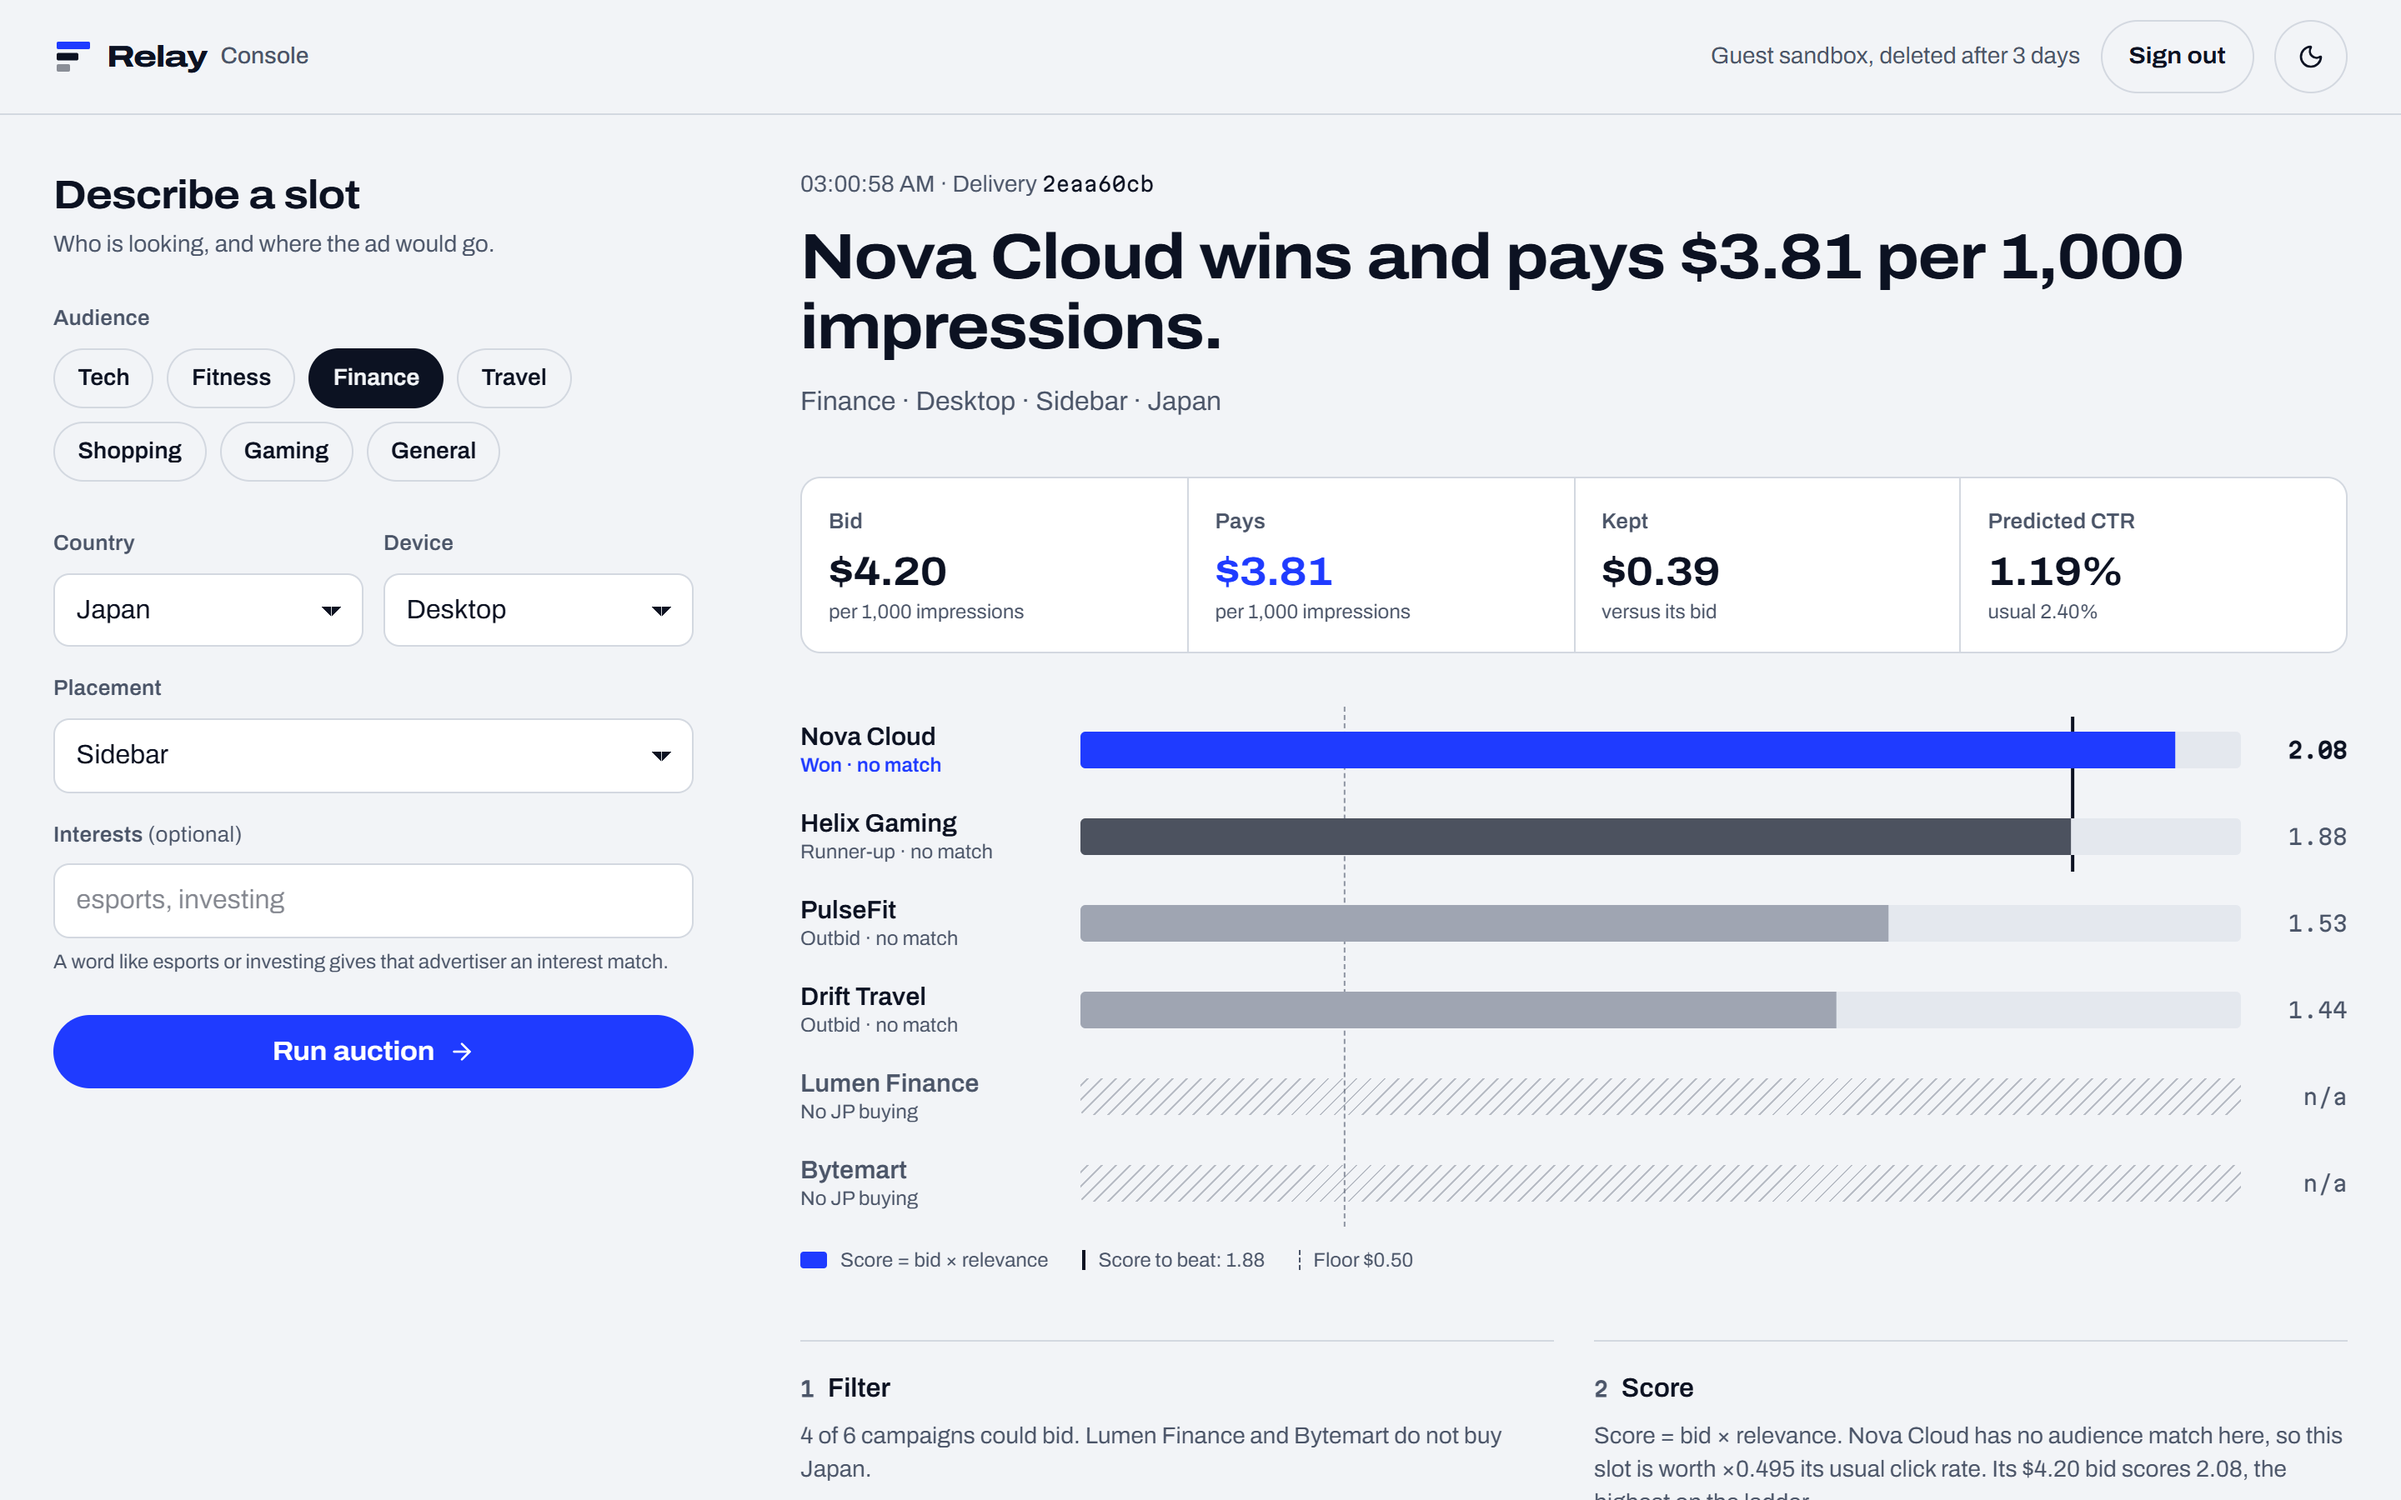
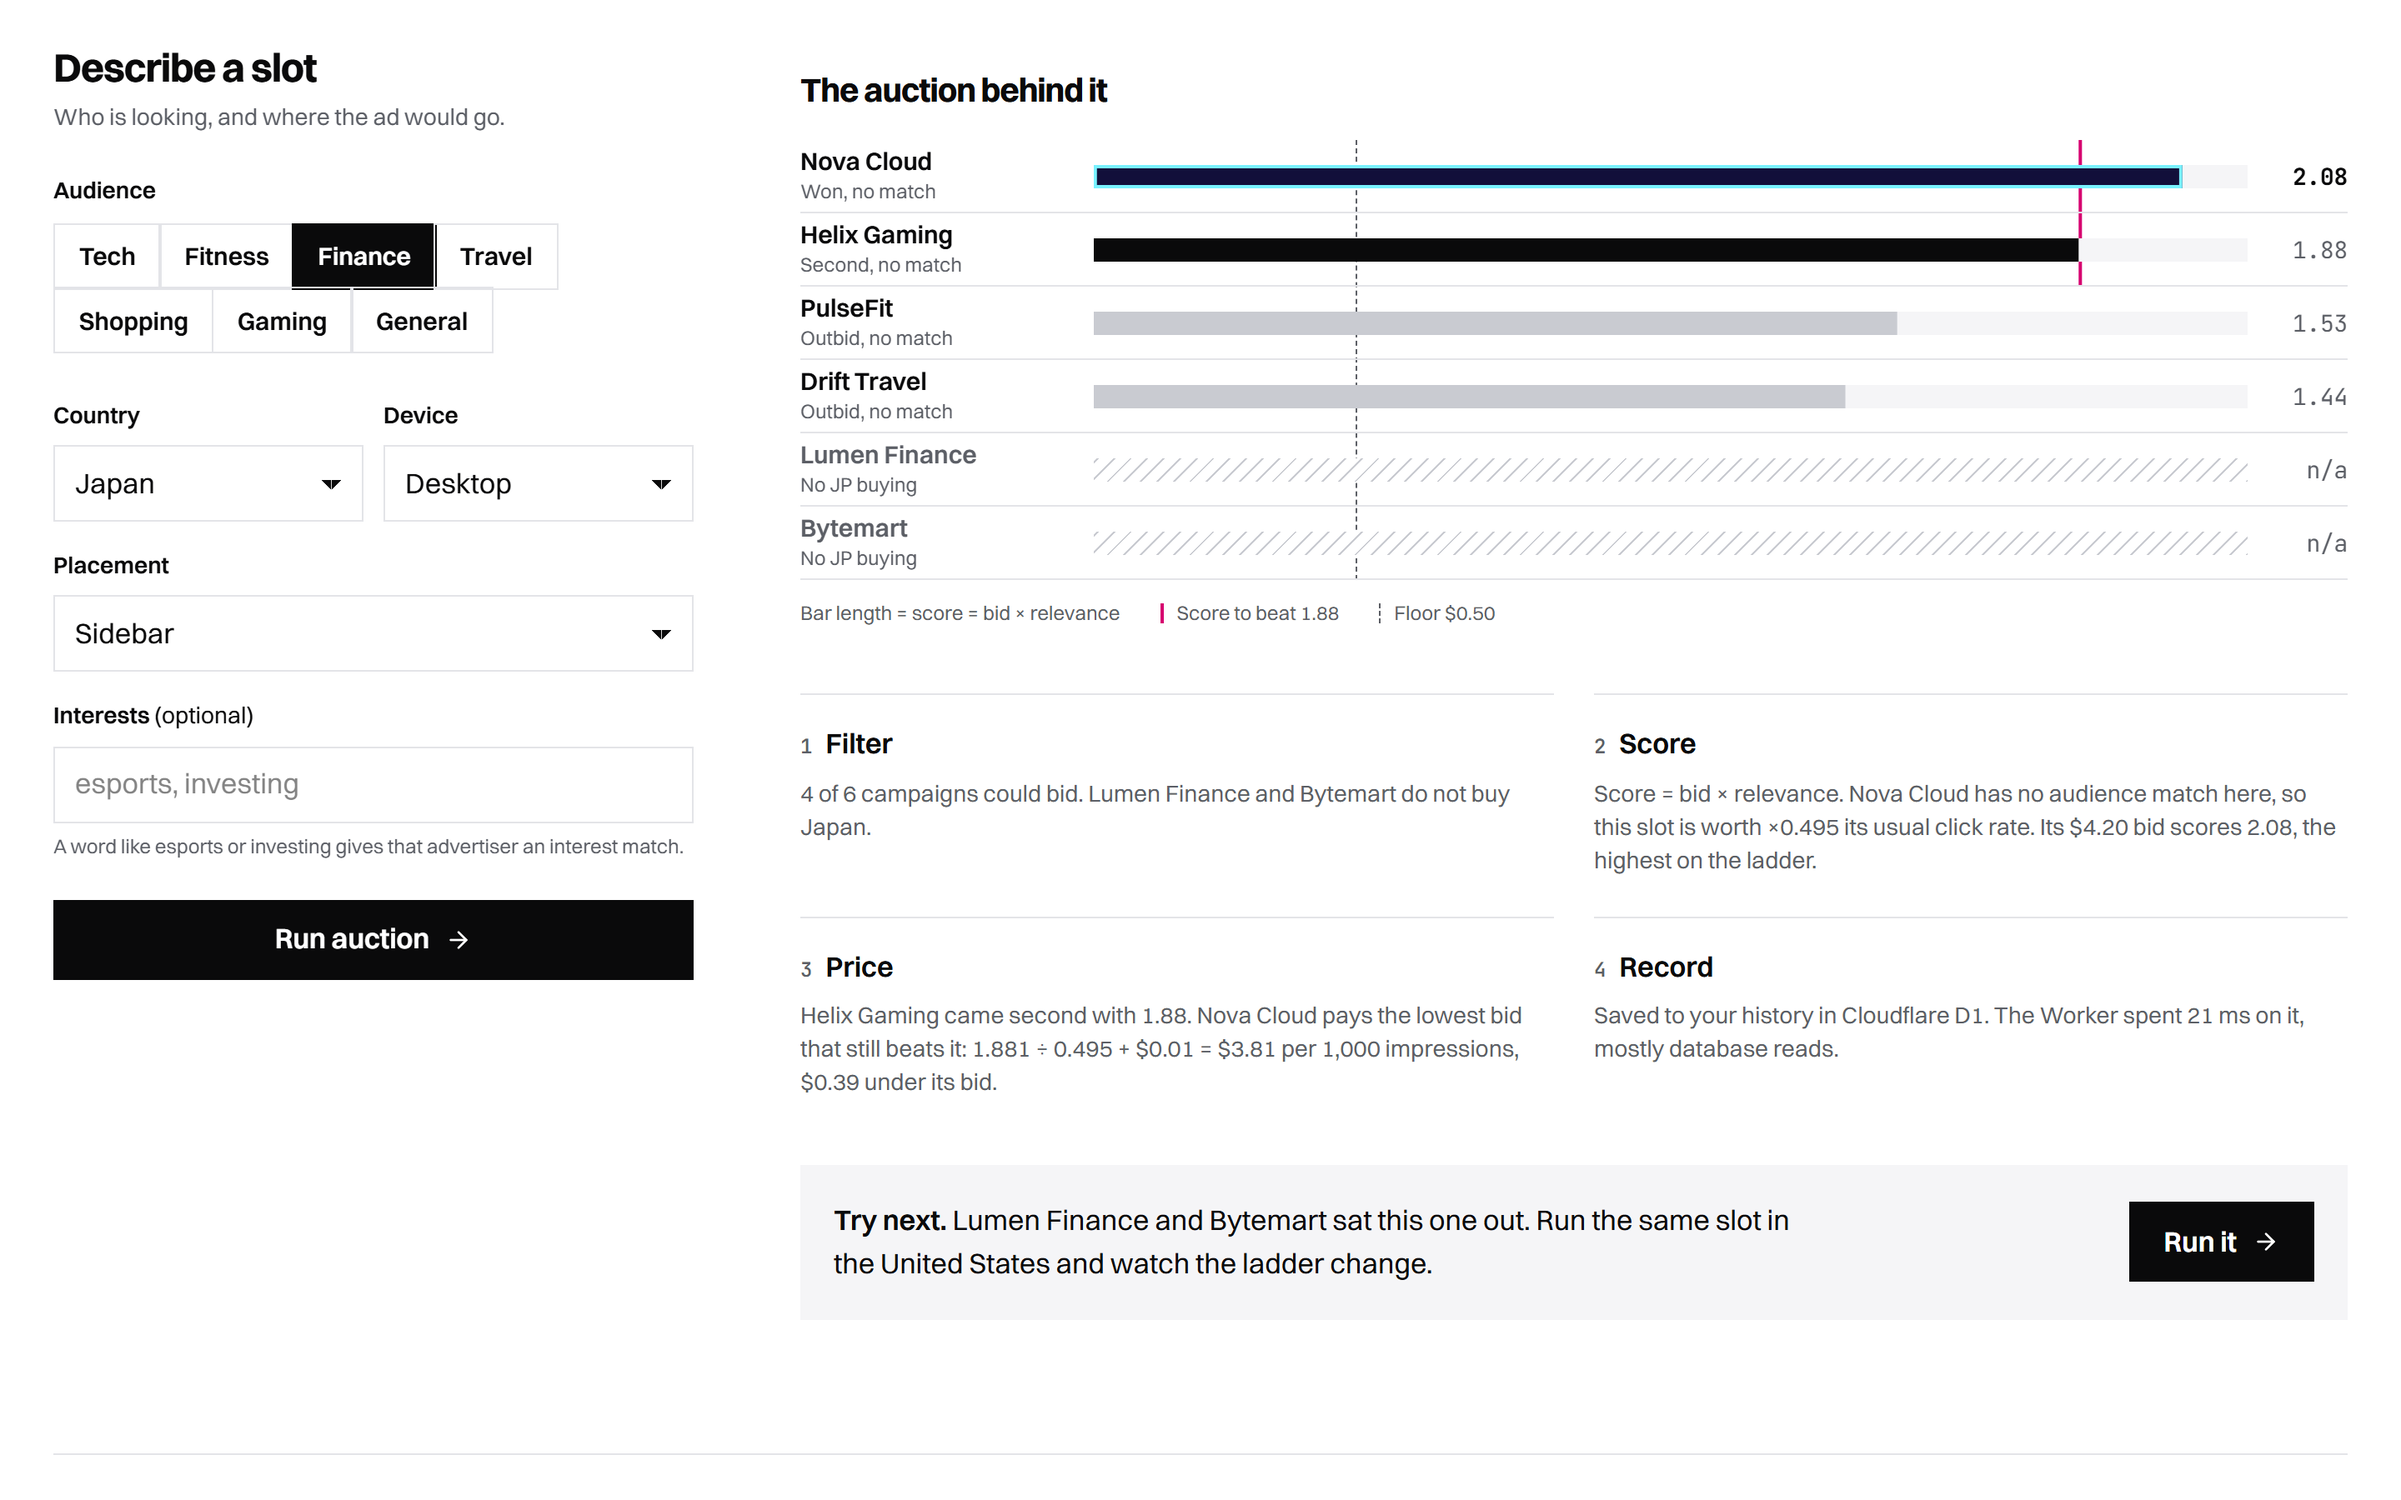
Docs: README and design notes for the ad-inventory redesign; new screenshots

diff --git a/docs/DESIGN.md b/docs/DESIGN.md
@@ -2,40 +2,37 @@
 
 ## Idea
 
-Every ad slot is an auction, and Relay shows the whole auction instead of just the winner. The
-interface borrows from a trading **price ladder**: ranked rows, bars as long as each bidder's score,
-and one marked line where the price is set.
+**The page is ad inventory.** The landing page is an ad-supported article about how an ad auction
+works, and its five ad slots are the demonstration. They are sold on the server when the page opens,
+to six fictional advertisers, and each one shows its receipt and the auction behind it.
 
-- **Signature:** the bid ladder (`src/components/Ladder.tsx`). Bidders slide to their new rung and
-  their bars extend when the audience changes. A solid marker sits at the score the winner had to beat,
-  and a dashed marker shows the floor. Campaigns that sit out are hatched.
-- **Motion verb:** *lock in.* Things move fast and stop decisively (`--ease-lock`,
-  `cubic-bezier(0.16, 1, 0.3, 1)`). Nothing bounces.
-- **Idle state:** on the landing page the live auction steps through audiences every 5 s while it is
-  on screen, until the visitor picks one. Every frame is a real result from the API.
-- **Hover:** primary buttons and nav links roll their label like a price tick (`.roll`). Utility links
-  only change color or underline.
+- **Anchor:** the five placements the API sells (leaderboard, medium rectangle, native in-feed,
+  interstitial, video pre-roll), drawn at their standard ad-ops sizes.
+- **Signature:** pick a different reader and the whole page is sold again: every slot wipes to its new
+  winner. With nothing picked, the page re-sells itself every 7 s while the top of it is on screen.
+- **Motion verb:** *fill.* Creatives wipe in over hatched, unsold inventory (`clip-path`), and buttons
+  flood magenta from the bottom edge. One easing: `--ease-fill`.
+- **Frequency cap:** an advertiser wins at most one slot per page view, so the page shows a spread of
+  advertisers. This is a real ad-serving rule, enforced on the server.
 
 ## System
 
 | Role | Light | Dark |
 | --- | --- | --- |
-| ground (aluminium) | `#f2f4f7` | `#090c14` |
-| raised | `#ffffff` | `#101522` |
-| ink (carbon) | `#0c1222` | `#e8ebf2` |
-| muted | `#4b5568` | `#98a1b3` |
-| line | `#d3d8e0` | `#242c3c` |
-| accent (cobalt, "won") | `#1f3bff` | `#7489ff` |
+| ground (paper) | `#ffffff` | `#0b0b0c` |
+| ink | `#0a0a0b` | `#f1f1f2` |
+| muted | `#5c5f66` | `#9a9ca3` |
+| line | `#e3e4e8` | `#26272b` |
+| spec (magenta measurement lines, focus, price marker) | `#d6006f` | `#ff4fa3` |
 
-Cobalt only marks the winner and primary actions. Muted text and the accent pass WCAG AA in both
-themes.
-
-- **Type:** Archivo variable. Display text is set at width 125% and weight 800 with negative tracking;
-  body text at width 100%. Martian Mono is used only for numbers that line up (scores, prices, ids).
-- **Shape:** pill buttons and chips, 0.6 to 1.25 rem radius on fields and panels, 3 px on bars.
-- **Motion:** transforms and opacity only. Under `prefers-reduced-motion` every transition and
-  animation is cut to 1 ms and the idle cycle doesn't run.
-- **Accessibility:** skip link, one `h1` per page, a visible focus ring in the accent, and the ladder
-  mirrored as an ordered list for screen readers (the bars are `aria-hidden`).
-- **No smooth-scroll library and no WebGL.** This is a working console with independent panes; the
-  craft is in the type, the ladder and the states.
+- **Colour comes from the sold ads.** The site itself is black, white and magenta. Each fictional
+  advertiser has its own colours and mark (`src/lib/brands.ts`), used only inside its creative and its
+  winning bar on the ladder.
+- **Type:** Switzer for everything, with display sizes at weight 700 and tight tracking.
+  JetBrains Mono is used only for measurements and money (slot sizes, prices, scores).
+- **Shape:** square corners. Slots are rectangles because ads are; unsold space is hatched.
+- **Honesty in place:** every creative carries an "Ad" badge and "Fictional advertiser". The article
+  has an advertising disclosure listing what is real and what is made up.
+- **Accessibility:** skip link, one `h1` per page, magenta focus ring, creatives exposed as labelled
+  images, the ladder mirrored as an ordered list. Under reduced motion there are no wipes and no idle
+  re-selling.

diff --git a/README.md b/README.md
@@ -1,13 +1,16 @@
 # Relay
 
-**An ad server you can watch think.** Describe an ad slot and who is looking at it. Relay runs a
-second-price auction on the server between six fictional advertisers, then shows every bidder's score,
-who won, what they paid and how the price was worked out.
+**An ad server you can watch think.** When you open the site, its five ad slots are auctioned on the
+server to six fictional advertisers and filled with the winners' ads, each with a receipt. In the console
+you describe a slot yourself and see every bidder's score, who won, what they paid and how the price
+was worked out.
 
 **Live:** https://relay-auction.pages.dev. Click **Run your own auctions** for a private guest
 sandbox (no sign-up), or sign in with the shared demo account `demo@relay.dev` / `demo1234`.
 
-![The Relay console explaining one auction](docs/console.png)
+![The landing page: five ad slots sold live to fictional advertisers](docs/landing.png)
+
+![The console explaining one auction](docs/console.png)
 
 ## What's real and what's made up
 
@@ -28,6 +31,9 @@ sandbox (no sign-up), or sign in with the shared demo account `demo@relay.dev` /
 4. **Price.** The winner pays the lowest bid that would still have beaten the runner-up's score (or the
    floor, if there is no runner-up), plus $0.01, and never more than its own bid. This is a
    generalised second-price auction.
+
+On the landing page the slots are sold most-valuable first, and each advertiser can win at most one
+slot per page view (a frequency cap); capped bidders show up on that slot's ladder.
 
 The engine is [`api/auction.ts`](api/auction.ts). Its tests check the pricing rules against every
 possible request.
@@ -72,7 +78,7 @@ Cloudflare Pages
 
 | Route | Auth | Does |
 | --- | --- | --- |
-| `GET /api/auction/preview?placement&device&country` | no | Runs one auction per audience segment without recording anything (powers the landing page) |
+| `GET /api/auction/page?segment&device&country` | no | Sells all five placements for one reader, with the frequency cap, without recording anything (powers the landing page). Country defaults to the visitor's, via Cloudflare |
 | `GET /api/campaigns` | no | The advertiser catalog |
 | `POST /api/auth/guest` | no | Creates a private guest sandbox |
 | `POST /api/auth/signup`, `POST /api/auth/login` | no | Email and password accounts |
